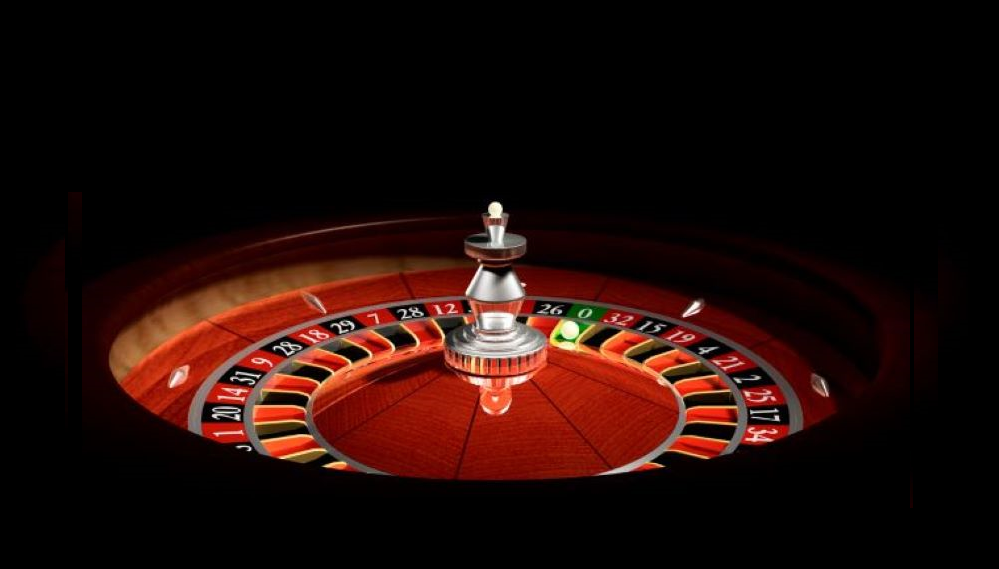
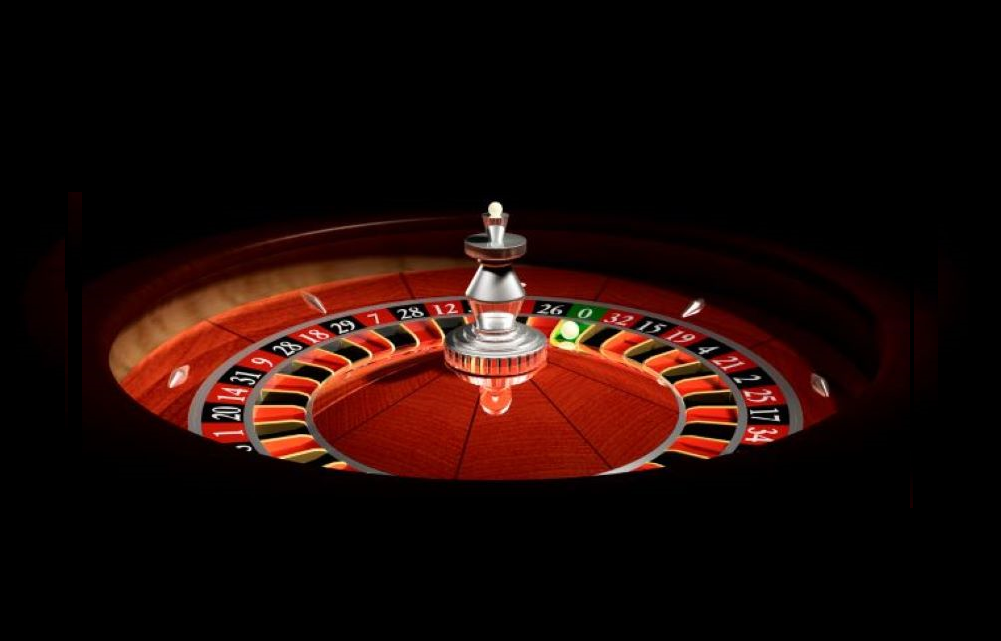
aaa

Changed region(s): [[0.0931, 0.2988, 0.8999, 0.8664], [0.8378, 0.4183, 0.8999, 0.478]]

diff --git a/src/Components/homeImage.jsx b/src/Components/homeImage.jsx
@@ -5,7 +5,7 @@ const Promociones = () => {
         <div className="row  d-flex justify-content-center" style={{marginRight:"-15px", marginLeft:"-15px",}}>
             {homes.map(({colorFondo, textColor, titulo, texto, imagen } ) => (
 
-                <div className="row mt-2 pt-4 d-flex justify-content-center"  style={{backgroundColor: colorFondo,  height:"450px" }}>   
+                <div className="row mt-2 pt-4 d-flex justify-content-center"  style={{backgroundColor: colorFondo }}>   
                     <div className="container">
                         <div className="py-2 col text-center text-justify">
                         <h1 className={textColor} style={{fontFamily:"Albert sans", fontSize:"35px", }}>{titulo}</h1>

diff --git a/src/info.js b/src/info.js
@@ -18,7 +18,7 @@ export const homes = [
         textColor: "text-white",
         titulo: "Mesas en Vivo",
         texto: "Integración. Personalización. Seguridad.",
-        imagen: "img11.png"
+        imagen: "img111.png"
     },
     {
         colorFondo: "#ededed",
